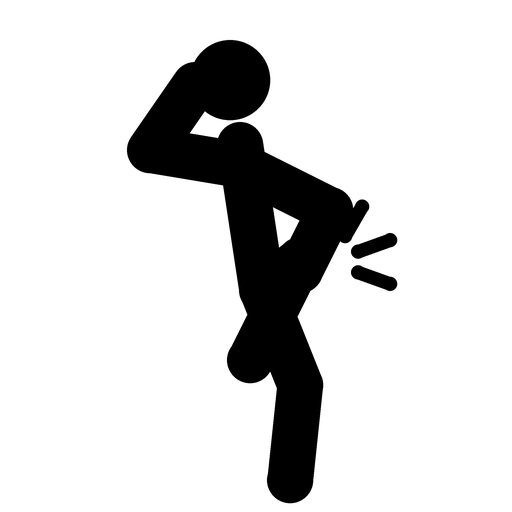
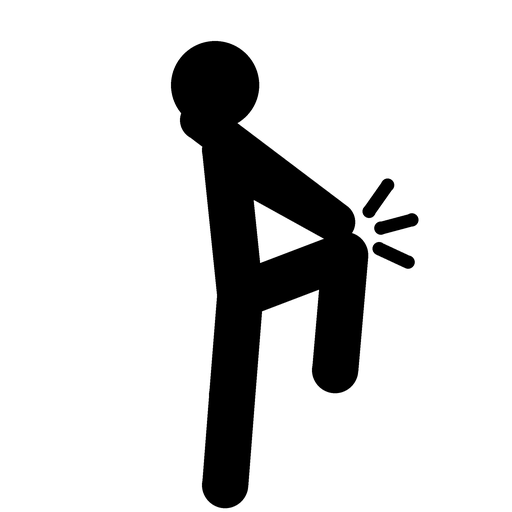
New moves, round 2: patterns really reach the cue, softer high knees, clearer signs
- Arm patterns: PlaylistTimeline rebuilt the cues without `shape`, so in a playlist every ArcHold
  fell back to the circle. Shape is now carried through; non-circle patterns are drawn bigger on
  the trainer's hand.
- High Knees: only a slight bounce (the knee does the work).
- Squat Jump: a low glowing kerb over both inner lanes with the instruction on its front face,
  replacing the flat floor plate that couldn't be seen.
- ArmGate: each slot has a glowing rail down its middle, glass edges and a fist sign at its
  mouth, so it is clear where the arms go.
- Cross Crunch: a new icon in profile - the elbow coming down onto the raised knee.

diff --git a/Assets/Scripts/CueSpawner.cs b/Assets/Scripts/CueSpawner.cs
@@ -2328,6 +2328,20 @@ public class CueSpawner : MonoBehaviour
                         fills.Add(CreateBoxFill(stretchT, lo, hi, obstacleFillMat));
                         bright.AddRange(CreateBoxEdges(stretchT, lo, hi, obstacleEdgeThickness, cueBaseMat));
                     }
+                    // The slot itself (the user: "inside there is nothing, you can't see where the arms
+                    // go"): a glowing rail down its middle the whole length, glass above and below it,
+                    // and a fist sign at its mouth facing the camera.
+                    float xc = (x0 + x1) * 0.5f, ym = (slotLow + slotHigh) * 0.5f;
+                    bright.Add(CreateBeam(stretchT, new Vector3(xc, ym, 0f), new Vector3(xc, ym, 1f), 0.1f, cueBaseMat));
+                    fills.Add(CreateBoxFill(stretchT, new Vector3(x0, slotLow - 0.04f, 0f), new Vector3(x1, slotLow + 0.04f, 1f), obstacleFillMat));
+                    fills.Add(CreateBoxFill(stretchT, new Vector3(x0, slotHigh - 0.04f, 0f), new Vector3(x1, slotHigh + 0.04f, 1f), obstacleFillMat));
+                    var sign = new GameObject("SlotSign");
+                    sign.transform.SetParent(root.transform, false);
+                    sign.transform.localPosition = new Vector3(xc, ym, -0.03f);
+                    sign.transform.localScale = new Vector3(Mathf.Abs(x1 - x0) * 0.8f, (slotHigh - slotLow) * 0.85f, 0.02f);
+                    bright.Add(AttachMesh(sign, unitCubeMesh, cueBaseMat));
+                    var fist = AttachIcon(root.transform, punchIconQuad, fistIconMat, new Vector3(xc, ym, -0.06f - IconLift));
+                    fist.transform.localScale = Vector3.one * 0.55f;
                 }
                 return new CueVisual
                 {
@@ -2339,17 +2353,25 @@ public class CueSpawner : MonoBehaviour
             }
             case CueType.SquatJump:
             {
-                // The kick plate, stretched over both inner lanes: two feet together, then up.
+                // A low glowing kerb over both inner lanes (the user: "the plate on the floor can't be
+                // seen"), the instruction - two feet under an arrow - upright on its front face.
                 var root = new GameObject("Cue_SquatJump");
                 root.transform.SetParent(transform, false);
-                var frame = CreateChevronPart(root.transform, "Frame", kickFrameMesh, new Vector3(0f, -kickThickness * 0.22f, 0f));
-                var plate = CreateChevronPart(root.transform, "Plate", kickPlateMesh, Vector3.zero);
-                const float wide = 2.15f;          // one lane's plate -> both inner lanes
-                frame.transform.localScale = new Vector3(wide, 1f, 1f);
-                plate.transform.localScale = new Vector3(wide, 1f, 1f);
-                var icon = AttachIcon(root.transform, kickIconQuad, NewIconMat("squatjump"), new Vector3(0f, kickThickness * 0.5f + IconLift, 0f));
-                icon.transform.localScale = Vector3.one * 1.35f;
-                return new CueVisual { root = root.transform, bright = new[] { plate }, frame = new[] { frame } };
+                float laneW = tunnel.FloorWidth / tunnel.LaneCount;
+                float hw = laneW * 0.95f, h = 0.6f, dz = 0.55f;
+                var lo = new Vector3(-hw, 0f, 0f);
+                var hi = new Vector3(hw, h, dz);
+                var fill = CreateBoxFill(root.transform, lo, hi, obstacleFillMat);
+                var edges = CreateBoxEdges(root.transform, lo, hi, obstacleEdgeThickness * 1.3f, cueBaseMat);
+                var face = new GameObject("Face");
+                face.transform.SetParent(root.transform, false);
+                face.transform.localPosition = new Vector3(0f, h * 0.5f, -0.02f);
+                face.transform.localScale = new Vector3(hw * 1.9f, h * 0.92f, 0.02f);
+                var faceR = AttachMesh(face, unitCubeMesh, cueBaseMat);
+                var icon = AttachIcon(root.transform, punchIconQuad, NewIconMat("squatjump"), new Vector3(0f, h * 0.5f, -0.04f - IconLift));
+                icon.transform.localScale = Vector3.one * 0.95f;
+                var bright = new List<MeshRenderer>(edges) { faceR };
+                return new CueVisual { root = root.transform, bright = bright.ToArray(), frame = new[] { fill } };
             }
             case CueType.Punch:
             case CueType.PunchHigh:

diff --git a/Assets/Scripts/SilhouetteV5/SilhouetteTrainerV5.cs b/Assets/Scripts/SilhouetteV5/SilhouetteTrainerV5.cs
@@ -544,7 +544,9 @@ public class SilhouetteTrainerV5 : MonoBehaviour
                         // with the cube (CueSpawner.RebuildArc: angle = 90 - sweep * progress, in
                         // screen space), drawn in front of the shoulder, scaled to the arm.
                         float p = Mathf.Clamp01((now - g.impact) / Mathf.Max(0.01f, g.holdEnd - g.impact));
-                        float rr = 0.34f * g.arcRadius / 0.75f;
+                        // The patterns other than the circle are drawn bigger: a wave or a zigzag reads as
+                        // one only when the arm travels across the body.
+                        float rr = (g.arcShape == ArmPath.Circle ? 0.34f : 0.5f) * g.arcRadius / 0.75f;
                         Vector3 centre = shoulder + new Vector3(x * 0.36f, 0.08f, s.punchForward + 0.12f);   // out from the head
                         Vector2 o = ArmPath.Offset(g.arcShape, g.arcSweep, 90f, p);   // the same pattern the cube draws
                         Vector3 t = centre + new Vector3(X(1) * o.x * rr, o.y * rr, 0f);
@@ -688,7 +690,10 @@ public class SilhouetteTrainerV5 : MonoBehaviour
                         // air before the note, landing on the other foot with the knees giving.
                         float air = now > g.start && now < g.impact ? Mathf.Sin(Mathf.PI * (now - g.start) / Mathf.Max(0.01f, g.impact - g.start)) : 0f;
                         float land = now >= g.impact && now < g.end ? Mathf.Sin(Mathf.PI * (now - g.impact) / Mathf.Max(0.01f, g.end - g.impact)) : 0f;
-                        float hop = air * s.jackHop;
+                        // High Knees (g.high): only a slight bounce, the knee does the work (the user's call).
+                        float bounce = g.high ? 0.2f : 1f;
+                        float hop = air * s.jackHop * bounce;
+                        land *= bounce;
                         Vector3 up = new Vector3(0f, s.oneLegLift * 1.3f * w + hop, s.oneLegForward * 1.6f * w);   // the knee well up (the user's call)
                         if (w > footW[limb]) { footW[limb] = w; foot[limb] = up; }
                         int other = 1 - limb;

diff --git a/Assets/Scripts/SilhouetteV5/SilhouettePlannerV5.cs b/Assets/Scripts/SilhouetteV5/SilhouettePlannerV5.cs
@@ -278,7 +278,7 @@ public static class SilhouettePlannerV5
                     // High Knees (video 24): a running hop, the knee on the sign's side up high.
                     gestures.Add(new GestureV5
                     {
-                        kind = GestureKindV5.HopOne, side = side, outer = false,
+                        kind = GestureKindV5.HopOne, side = side, outer = false, high = true,   // high = a light running bounce, not a hop
                         start = c.time - 0.3f * beat, impact = c.time, holdEnd = c.time + 0.05f * beat, end = c.time + 0.3f * beat, note = i,
                     });
                     break;

diff --git a/Assets/Scripts/Playlist/PlaylistTimeline.cs b/Assets/Scripts/Playlist/PlaylistTimeline.cs
@@ -160,7 +160,7 @@ public sealed class PlaylistTimeline
                                         && InTransition(time) && time >= span.audioStart && time <= span.audioEnd;
                 if (!inside && !wallInTransition) { dropped++; continue; }
                 if (wallInTransition) walls++;
-                cues.Add(new BeatmapCue(time, c.type, c.lane, c.duration, c.intensity, c.arc, c.radius));
+                cues.Add(new BeatmapCue(time, c.type, c.lane, c.duration, c.intensity, c.arc, c.radius, c.shape));
                 kept++;
             }
             if (meta.sets != null)
